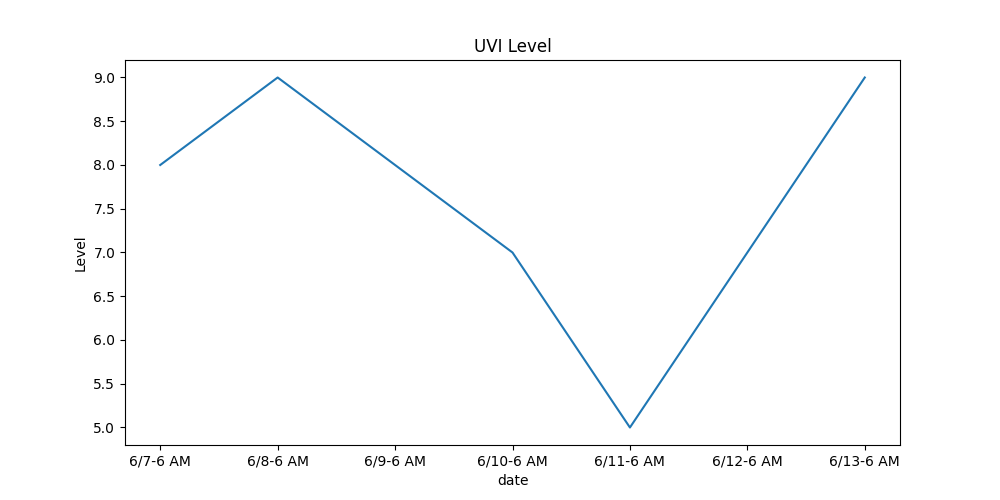
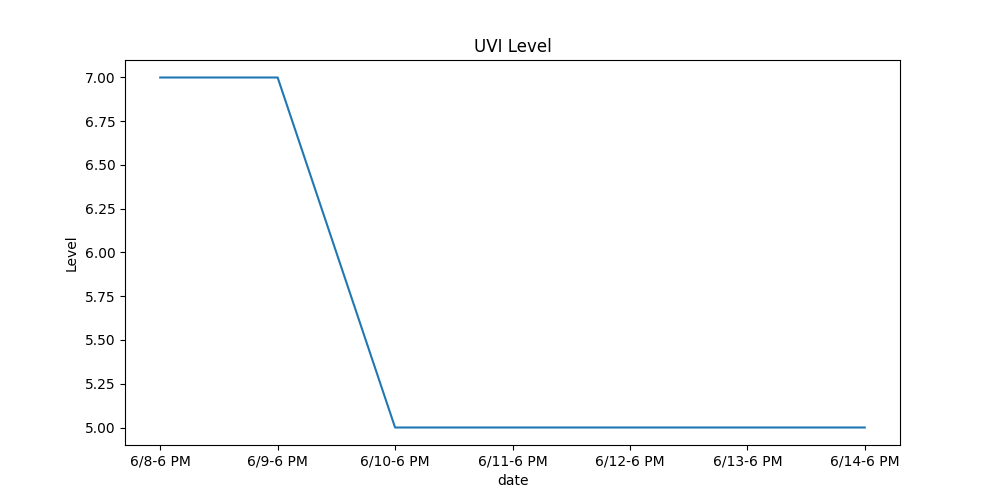
MacOs version
The previous version was run under windows, and it cannot work after moving to MacOs. Therefore, I changed some codes to make it work normally

diff --git a/LineBot/WeatherForcastBot/function/schedule.py b/LineBot/WeatherForcastBot/function/schedule.py
@@ -2,7 +2,7 @@ import threading
 import time,os
 import schedule,csv
 import WeatherForcastBot.function.FixTimeMessage as FixTimeMessage
-
+import pytz,datetime
 
 def run_continuously(interval=1): #讓 schedule 順利在背景執行
     """Continuously run, while executing pending jobs at each
@@ -21,6 +21,8 @@ def run_continuously(interval=1): #讓 schedule 順利在背景執行
         @classmethod
         def run(cls):
             while not cease_continuous_run.is_set():
+                print(schedule.get_jobs(),'\n',datetime.datetime.now())
+
                 schedule.run_pending()
                 time.sleep(interval)
 
@@ -28,16 +30,9 @@ def run_continuously(interval=1): #讓 schedule 順利在背景執行
     continuous_thread.start()
     return cease_continuous_run
 
-# def signal_handler(signum, frame):
-#         if signum == signal.SIGINT.value:
-#             print('exit')
-           
-#             stop_run_continuously.set()
-#             sys.exit(1)
-
 def initSchedule():# 初始化 schedule
     x=1
-    path=os.getcwd()+r'\WeatherForcastBot\Data\user.csv'
+    path=os.getcwd()+r'/WeatherForcastBot/Data/user.csv'
     with open(path,'r',encoding='utf-8',newline='\n') as ud:#讀檔
         csvReader=csv.reader(ud)
         for row in csvReader:
@@ -46,16 +41,14 @@ def initSchedule():# 初始化 schedule
             userid=row[0]
             sendTime=row[1]
             location=row[2]
-            schedule.every().day.at(sendTime).do(FixTimeMessage.sendFixedTimeMessage,userid,location).tag(userid)
+            schedule.every().days.at(sendTime,pytz.timezone('Asia/Taipei')).do(FixTimeMessage.sendFixedTimeMessage,userid,location).tag(userid)
     # Start the background thread
-    stop_run_continuously = run_continuously(60) #每60秒執行一次排程
+    print('add thread')
+    stop_run_continuously = run_continuously(10) #每60秒執行一次排程
 
-    # signal.signal(signal.SIGINT,signal_handler)
 def addSchedule(userid,time,location): #新增 schedule
     schedule.every().day.at(time).do(FixTimeMessage.sendFixedTimeMessage,userid,location).tag(userid)
 def deleteSchedule(userid):# 刪除schedule
-    print('before del')
     for job in schedule.get_jobs(tag=userid):
-        print('del')
         schedule.cancel_job(job=job)
     

diff --git a/LineBot/WeatherForcastBot/function/FixTimeMessage.py b/LineBot/WeatherForcastBot/function/FixTimeMessage.py
@@ -6,29 +6,12 @@ import WeatherForcastBot.function.HoursWeatherForcast as HoursWeatherForcast
 import WeatherForcastBot.function.schedule as scheduleFuntion
 
 line_bot_api = LineBotApi(settings.LINE_CHANNEL_ACCESS_TOKEN)
-path=os.getcwd()+r'\WeatherForcastBot\Data\user.csv' #userdata 的位置
+path=os.getcwd()+r'/WeatherForcastBot/Data/user.csv' #userdata 的位置
 
 def sendFixedTimeMessage(userid,location):#傳36小時預報
+    print('sending')
     line_bot_api.push_message(userid,messages=TextSendMessage(text= HoursWeatherForcast.get36HoursWeatherForcast(location)))
 
-# def setFixTimeMessageSchedule(userid,time,location):#設定schedule
-#     with open(path,'w',encoding='utf-8',newline='\n') as userData:#寫檔
-#         writer =csv.writer(userData)
-#         with open(path,'r',encoding='utf-8',newline='\n') as ud:#讀檔
-#             userIsExist=False #確認使用者在csv檔
-#             csvReader=csv.reader(ud)
-#             for row in csvReader:
-#                 newRow=row #之後要複寫
-#                 if row[0]==userid:#從 csv 找到 user 存在
-#                     userIsExist=True
-#                     scheduleFuntion.deleteSchedule(userid=userid) #刪除上一個固定傳訊的 schedule，要更新
-#                     scheduleFuntion.addSchedule(userid=userid,time=time,location=location)#新 schedule
-#                     newRow=[userid,time,location]#更新 user在 csv 的欄位
-#                 writer.writerow(newRow) #寫入
-#             if not userIsExist: #如果使用者不存在，寫入檔案並增加schedule
-#                 scheduleFuntion.deleteSchedule(userid=userid)
-#                 scheduleFuntion.addSchedule(userid=userid,time=time,location=location)
-#                 writer.writerow([userid,time,location])
 def setFixTimeMessageSchedule(userid,time,location):#設定schedule
     newData=[]
     with open(path,'r',encoding='utf-8',newline='\n') as ud:#讀檔

diff --git a/LineBot/WeatherForcastBot/function/WeeklyWeatherForecast.py b/LineBot/WeatherForcastBot/function/WeeklyWeatherForecast.py
@@ -5,6 +5,8 @@ import csv,os
 from linebot.models import TextSendMessage
 import pyimgur
 import matplotlib.pyplot as plt
+import matplotlib
+matplotlib.use('Agg')
 from linebot.models import ImageSendMessage
 import pandas as pd
 import requests
@@ -73,12 +75,12 @@ def get_weather_weekly_forecast(city:str):
                 results = pd.concat([results,new_data],ignore_index=True)
          
     results = results.reset_index(drop=True)
-    results.to_csv(os.getcwd()+r'\WeatherForcastBot\Data\weeklyForecast.csv', index=False)
+    results.to_csv(os.getcwd()+r'/WeatherForcastBot/Data/weeklyForecast.csv', index=False)
     return results
 def sendWeeklyForecastMessage(userid,location):
     get_weather_weekly_forecast(location)
-    path=os.getcwd()+r'\WeatherForcastBot\Data\weeklyForecast.csv'
-    xCountter=1
+    path=os.getcwd()+r'/WeatherForcastBot/Data/weeklyForecast.csv'
+    xCountter=0
     x=[]
     t=[]
     MaxAT=[]
@@ -126,7 +128,7 @@ def sendWeeklyForecastMessage(userid,location):
         plt.title('UVI Level')
         plt.xlabel("date")
         plt.ylabel('Level')
-        plt.savefig(os.getcwd()+r'\uviPlot.png')
+        plt.savefig(os.getcwd()+r'/uviPlot.png')
         # imgur 代理圖片轉URL的功能
         CLIENT_ID = "ead7e7d4037ae32"
         PATH = "tempPlot.png" #要傳送的圖

diff --git a/LineBot/WeatherForcastBot/views.py b/LineBot/WeatherForcastBot/views.py
@@ -61,8 +61,13 @@ def callback(request):
                         MessageTemplateAction(label='取消',text='取消')
                         ])
                         ),reply_token=replyToken)
-                if data=='fixed message time':#date time picker 選擇完進入點
-                    timedict[userid]=jsonData['events'][0]['postback']['params']['time']
+                if data=='fixed message time':#date time picker 選擇完進入點                   
+                    t=jsonData['events'][0]['postback']['params']['time']
+                    if int(t[0:2])>8: #轉換utc時間
+                        t=str(int(t[0:2])-8)+t[2:5]
+                    else:
+                        t=str(int(t[0:2])+16)+t[2:5]
+                    timedict[userid]=t
                     if userid in timedict and userid in locationdict: #確定時間和定位的資料存在
                         FixTimeMessage.setFixTimeMessageSchedule(userid,timedict[userid],locationdict[userid])                    
             if jsonData['events'][0]['type']=='message': #訊息事件

diff --git a/LineBot/WeatherForcastBot/__init__.py b/LineBot/WeatherForcastBot/__init__.py
@@ -1,11 +1,12 @@
 import WeatherForcastBot.function.schedule as schedule
 import WeatherForcastBot.views as views
 import os,csv
+import time
 #伺服器開機
 schedule.initSchedule()#找回並設定每個schedule
 
 def initViewsVariable(): #初始 view.py 的 timedict、locationdict
-    path=os.getcwd()+r'\WeatherForcastBot\Data\user.csv'
+    path=os.getcwd()+r'/WeatherForcastBot/Data/user.csv'
     with open(path,'r',encoding='utf-8',newline='\n') as ud:
         csvReader=csv.reader(ud)
         for row in csvReader:
@@ -16,6 +17,7 @@ def initViewsVariable(): #初始 view.py 的 timedict、locationdict
             location=row[2]
             views.timedict[userid]=sendTime
             views.locationdict[userid]=location
+
 initViewsVariable()
 
 

diff --git a/LineBot/LineBot/settings.py b/LineBot/LineBot/settings.py
@@ -29,7 +29,7 @@ LINE_CHANNEL_SECRET = '7bf1b6e0c845b8a612b987b3af5b35f5'
 DEBUG = True
 
 ALLOWED_HOSTS = [
-    '20bf-125-229-194-37.ngrok-free.app'
+    '10e4-125-229-194-37.ngrok-free.app'
 ]
 
 
